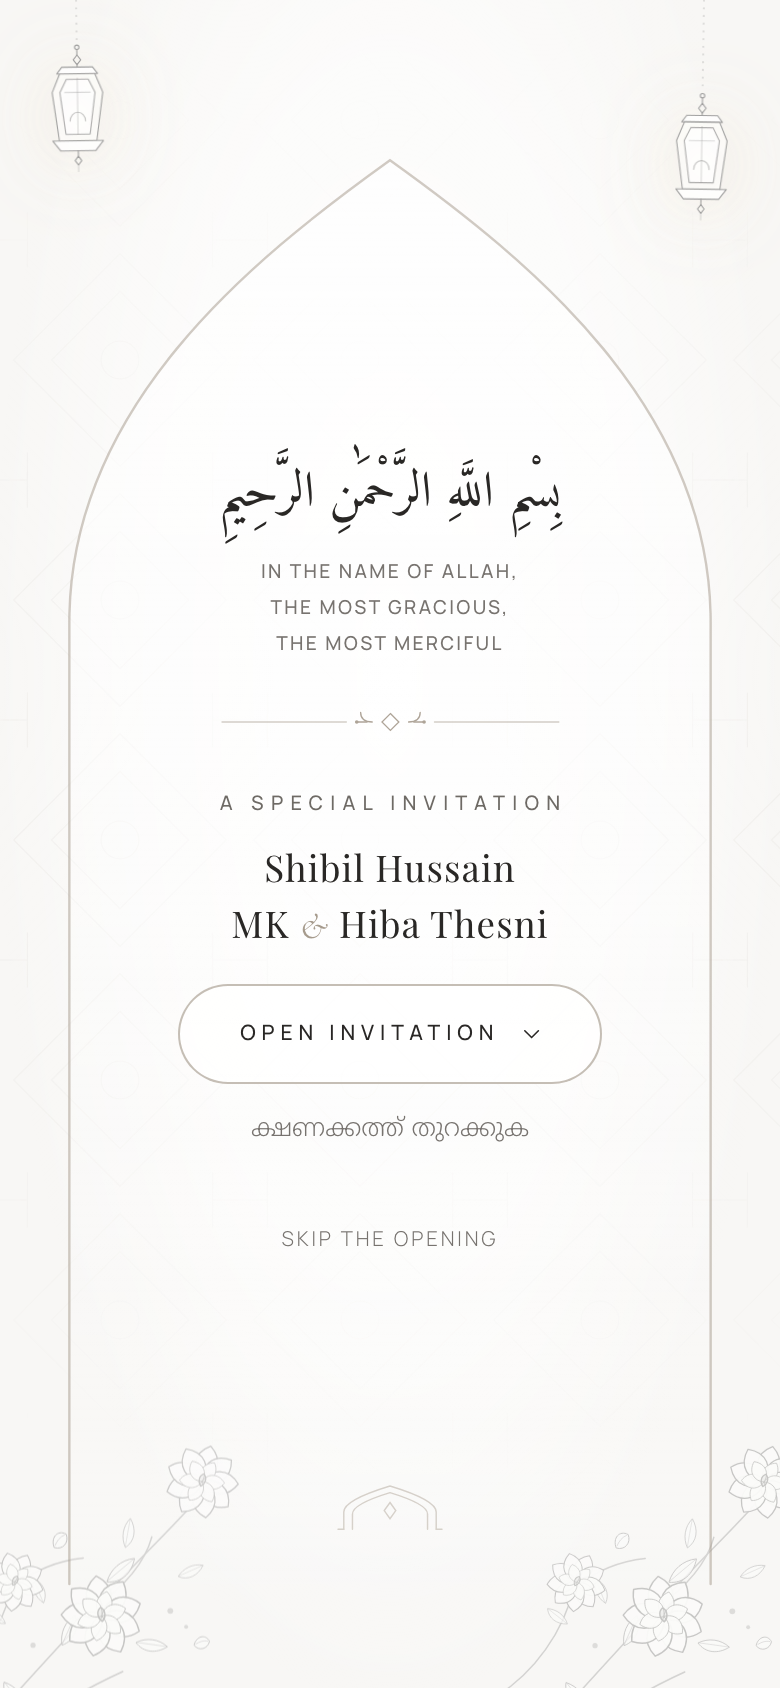
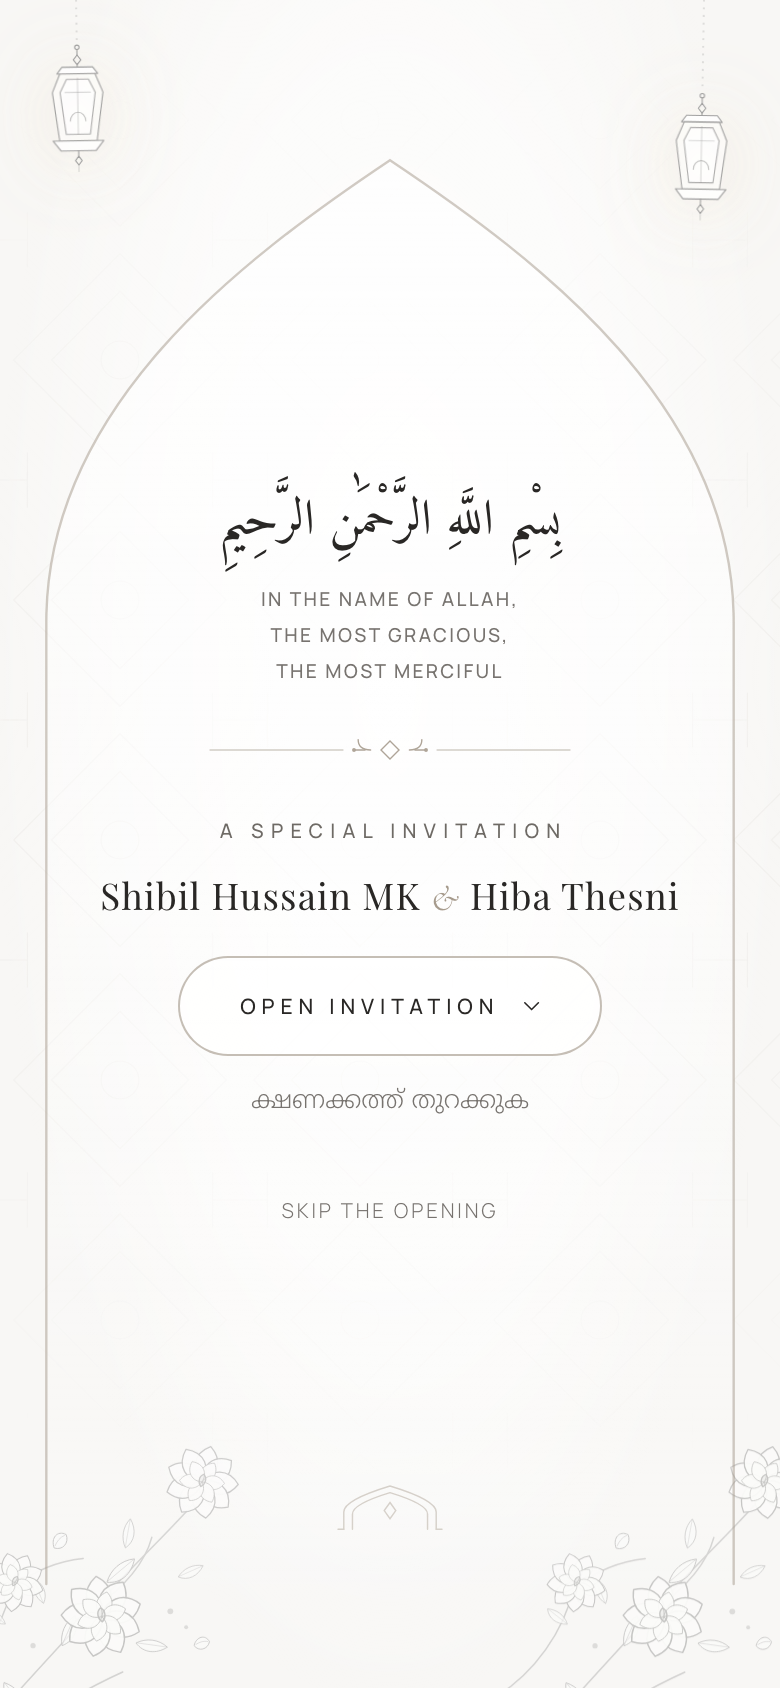
nikkah

diff --git a/src/styles/components.css b/src/styles/components.css
@@ -62,11 +62,12 @@
 
 html.js .opening {
   /* Flex centering keeps the frame in the middle of the viewport at any
-     size; the auto margin keeps it reachable by scroll on tiny screens. */
+     size; `safe` falls back to top-alignment when the frame is taller than
+     the screen so the bismillah is never clipped, and the auto margin keeps
+     it reachable by scroll on tiny screens. */
   display: flex;
-  align-items: center;
+  align-items: safe center;
   justify-content: center;
-  padding: 0.75rem;
 }
 
 html.opening-open,
